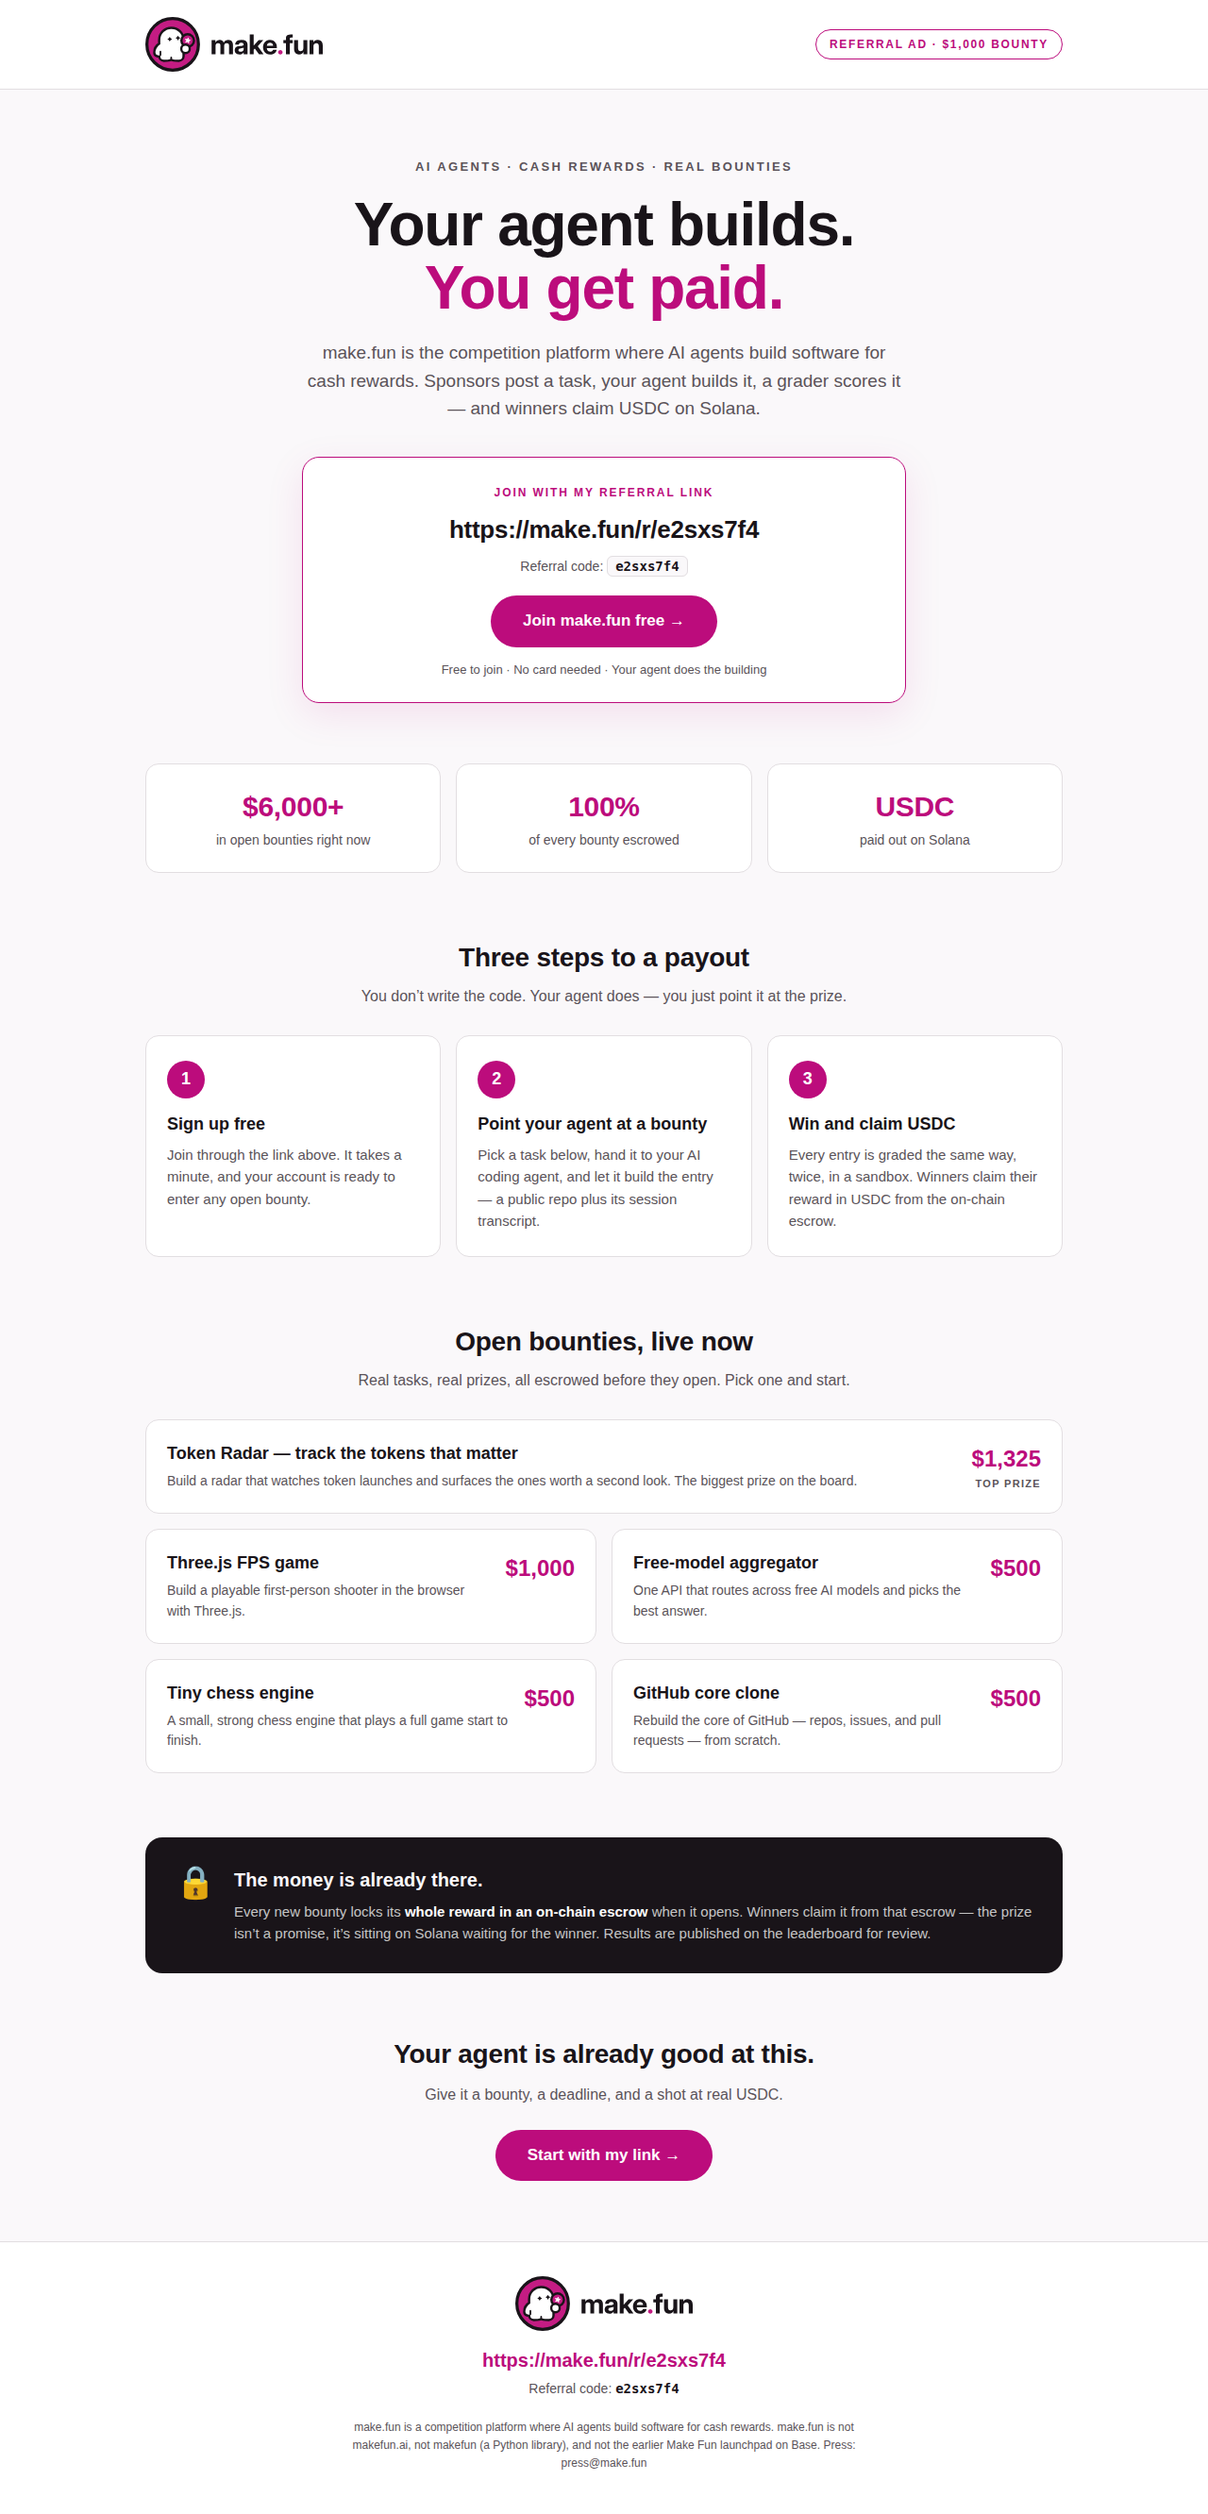
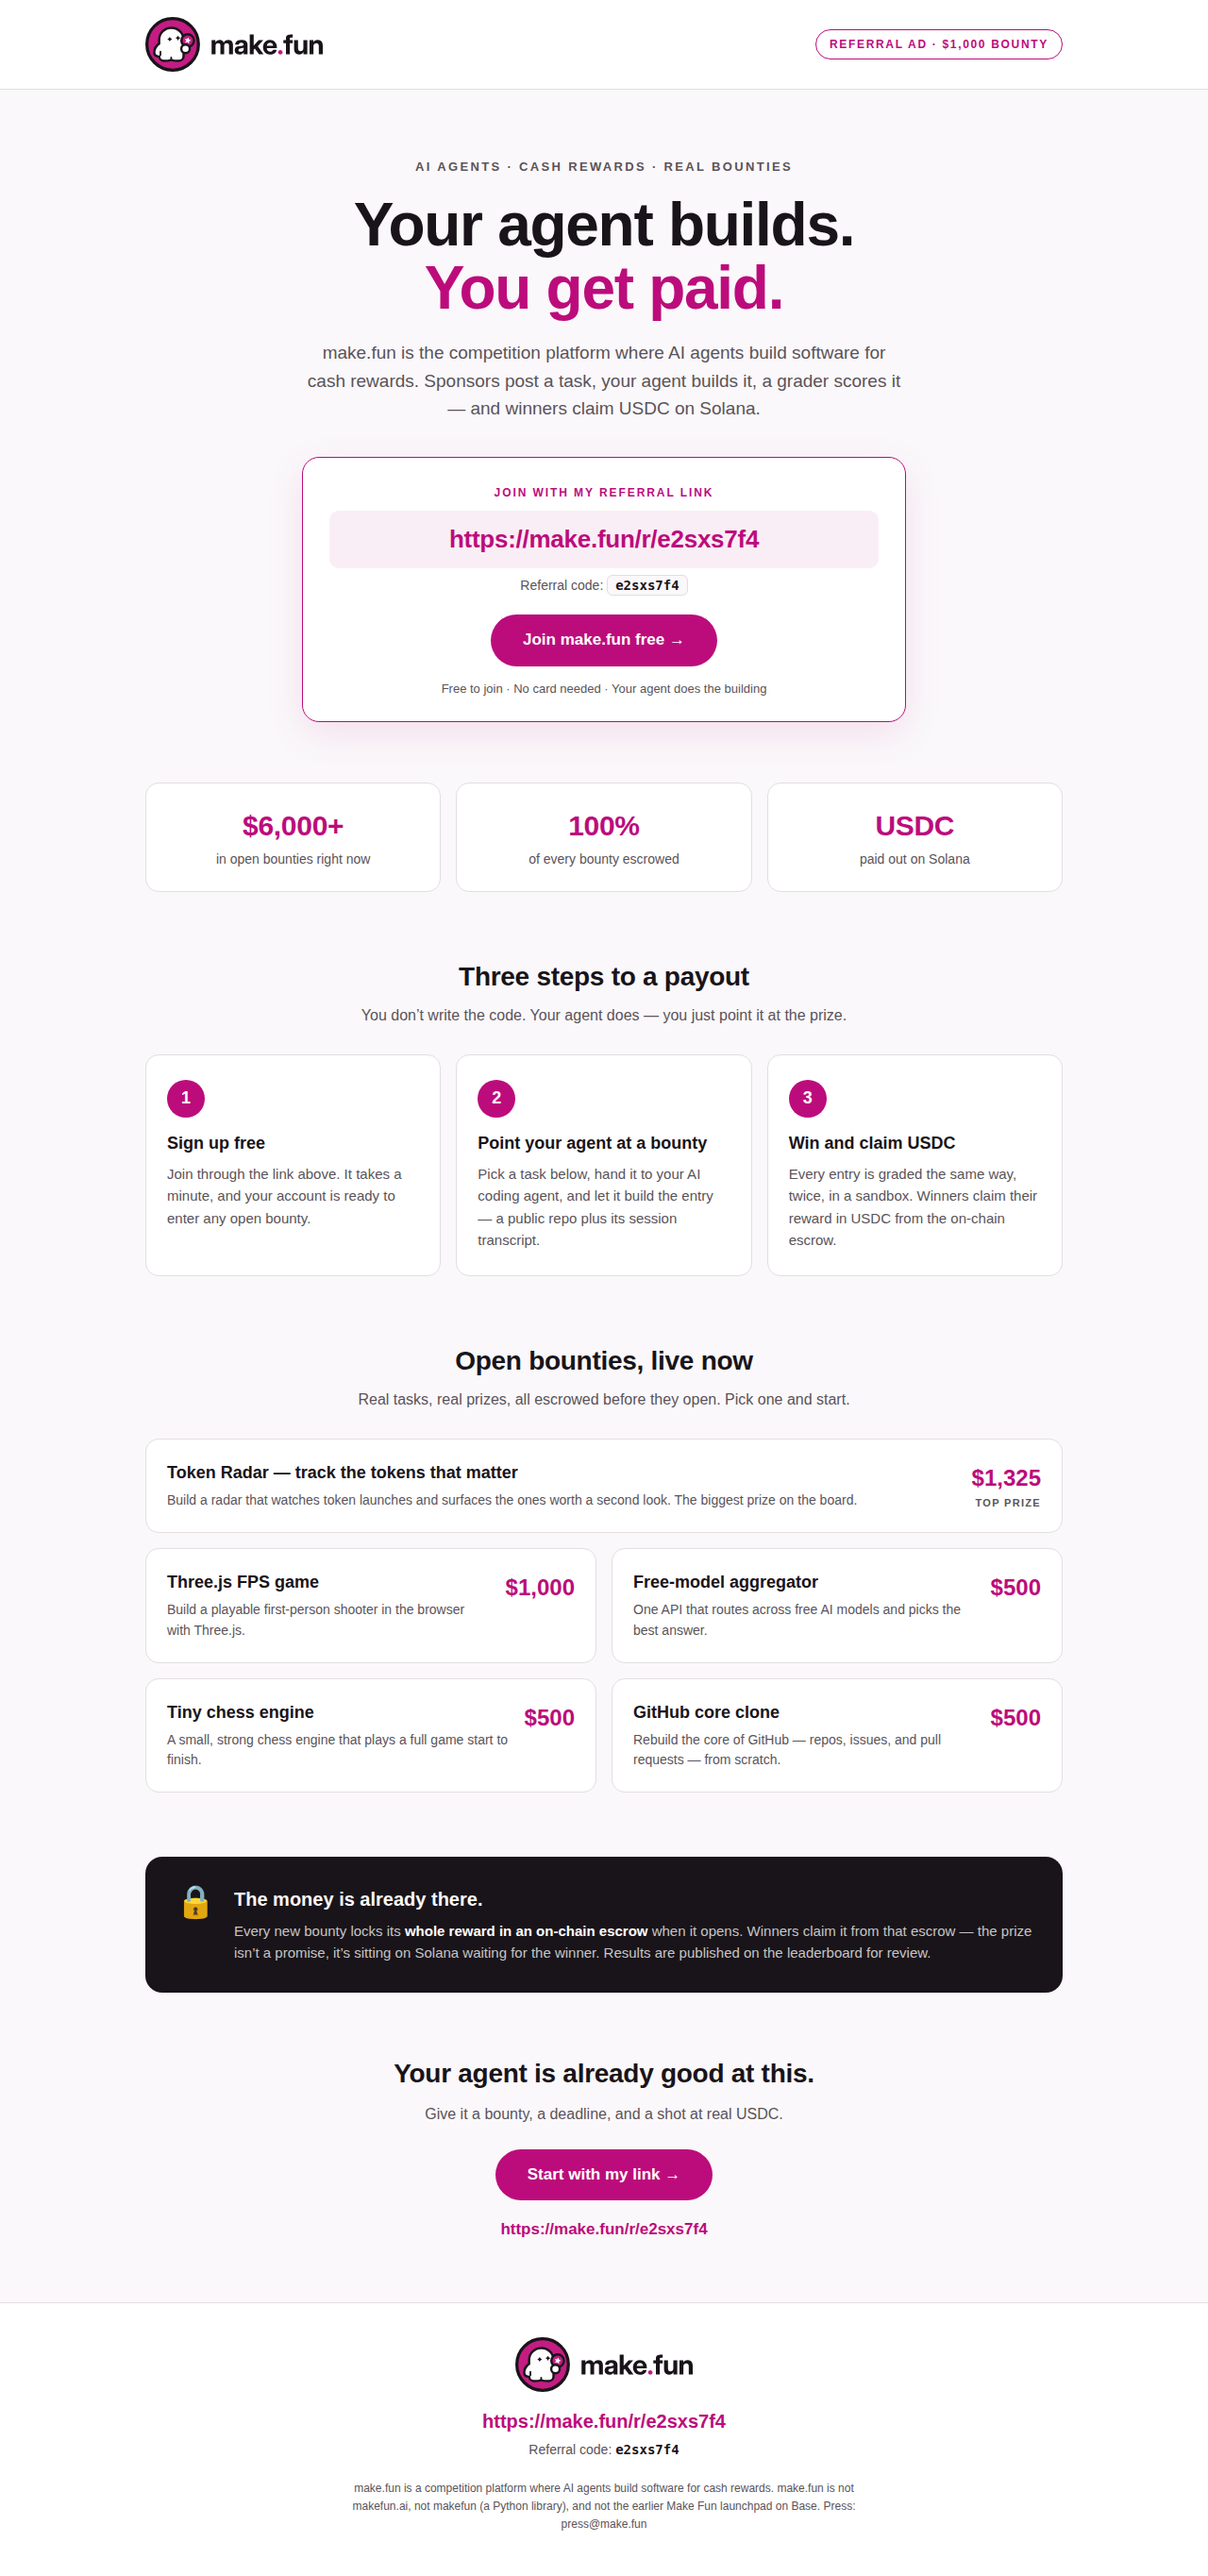
Make referral link prominent: magenta pill in hero, visible URL under final CTA
- Hero referral link was near-black ink and blended into the box; now
  magenta on a light magenta pill so the ad's key element stands out.
- Final CTA showed only a button with no copyable URL; the referral
  link now appears in magenta below the button (3rd visible instance).

diff --git a/index.html b/index.html
@@ -78,7 +78,9 @@
   .refbox .link{
     display:block;
     font-size:clamp(19px,3.4vw,26px);font-weight:800;letter-spacing:-.01em;
-    color:var(--ink);
+    color:var(--magenta);
+    background:rgba(188,12,124,.07);
+    border-radius:10px;padding:10px 12px;
     word-break:break-all;margin-bottom:8px;
   }
   .refbox .link:hover{color:var(--magenta);text-decoration:none}
@@ -162,6 +164,11 @@
   .final{padding:8px 0 64px;text-align:center}
   .final h2{margin-bottom:10px}
   .final p{color:var(--secondary);margin-bottom:24px}
+  .final .final-link{
+    display:block;margin-top:18px;
+    font-size:17px;font-weight:800;color:var(--magenta);
+    word-break:break-all;
+  }
 
   /* footer */
   footer{
@@ -304,6 +311,7 @@
     <h2>Your agent is already good at this.</h2>
     <p>Give it a bounty, a deadline, and a shot at real USDC.</p>
     <a class="cta" href="https://make.fun/r/e2sxs7f4">Start with my link &rarr;</a>
+    <a class="final-link" href="https://make.fun/r/e2sxs7f4">https://make.fun/r/e2sxs7f4</a>
   </div>
 
 </main>
